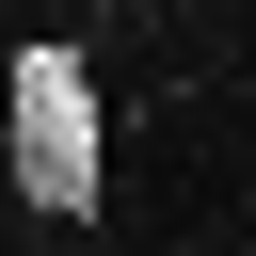
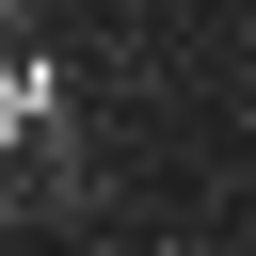
Added Mask

diff --git a/zero_shot.py b/zero_shot.py
@@ -4,7 +4,7 @@ from diffusers import DDIMScheduler,AutoencoderKL,UNet2DConditionModel
 from transformers import CLIPTextModel, CLIPTokenizer
 from tqdm import tqdm
 import matplotlib.pyplot as plt
-from ptp_utils import AttentionStore,diffusion_step,get_multi_level_attention_from_average,register_attention_control, get_cross_attention, show_cross_attention,latent2image
+from ptp_utils import AttentionStore,diffusion_step,get_multi_level_attention_from_average,register_attention_control, get_cross_attention, show_cross_attention,latent2image,save_tensor_as_image
 import cv2
 import argparse
 from accelerate import Accelerator
@@ -62,13 +62,15 @@ register_attention_control(unet, controller, new_attn)
 hr = cv2.resize(h, (args.res_size, args.res_size))
 cv2.imwrite(args.out_path + "hr.png", hr)
 ht = torch.tensor(cv2.resize(h, (args.res_size, args.res_size)), dtype=torch.float, device=device) / 255 
-x_0 = cv2.imread(args.out_path + "x0.png", cv2.IMREAD_GRAYSCALE)
-x_0 = torch.tensor(x_0, dtype=torch.float, device=device) / 255
+x_0 = torch.zeros((64,64), device=device, dtype=torch.float16)
+if args.guide:
+    x_0 = cv2.imread(args.out_path + "x0.png")
+    x_0 = torch.tensor(x_0, dtype=torch.float, device=device) / 255
 
 prompts = ["A cat on a garden with flowers, realistic 4k"]
 timesteps = 50
 scheduler.set_timesteps(timesteps)
-
+x_0 = torch.load(f'{path_original}{timesteps}.pt',map_location = device)
 batch_size = 1
 torch.manual_seed(2)
 noise = torch.randn((batch_size, 4, 64, 64), dtype=torch.float16, device=device) 
@@ -116,10 +118,10 @@ lossM = torch.nn.MSELoss(reduction="mean")
 m = torch.nn.Sigmoid()
 
 theta = torch.linspace(0.7, 1, timesteps//2)
-mask = torch.zeros_like(x0)
+mask = torch.zeros((64,64), device=noise.device, dtype=torch.float16)
 for t in tqdm(scheduler.timesteps):    
     if  0 <= step < timesteps // 2 and args.guide:
-        print(t)
+        
         #optimizer = torch.optim.SGD(filter(lambda p: p.requires_grad, pipe.unet.parameters()), args.lr)
         controller.reset()
         x_k = scheduler.scale_model_input(x_0, step)
@@ -133,17 +135,19 @@ for t in tqdm(scheduler.timesteps):
         attention_maps = attention_maps16.to(torch.float) 
         
         s_hat = attention_maps[:,:,mask_index]  #torch.mean(attention_maps,dim=-1)
-        mask = cv2.resize(s_hat.detach().cpu() + hr, x0.shape)
+        
+        heatmap = cv2.resize(s_hat.detach().cpu().numpy() + ht.cpu().numpy(), (64,64))
+        heatmap = heatmap / heatmap.max()
+        print(heatmap.max())
+        mask = torch.tensor(heatmap,device=device, dtype=torch.float16)
+        save_tensor_as_image(mask,"mask.png")
+        #mask = torch.nn.functional.interpolate(
+        #    mask, size=(512 // 8, 512 // 8)
+        #)
         
         attn_replace = torch.clone(attention_maps)
         attn_replace[:, :, mask_index] = ht
-        attn = s_hat.clone()
-        save_attn = (attn / 2 + 0.5).clamp(0, 1)
-        save_attn = attn.detach().cpu().numpy()
-        save_attn = (save_attn * 255).astype(np.uint8)
-        plt.imshow(save_attn)
-        plt.show()
-        plt.savefig("loss_attn.png")
+        save_tensor_as_image(attention_maps[:,:,mask_index],"loss_attn.png")
         losses = []
         
         
@@ -180,7 +184,7 @@ for t in tqdm(scheduler.timesteps):
         eta = 0.5
         latents = latents2 - eta * lambd[step] * grad_x
         latents = latents * theta[step] + latents_original * (1 - theta[step])
-        print(latents.shape)
+        
         #latents = (theta[step]) * latents + (1 - theta[step]) * torch.randn_like(latents)
         latents = latents.detach()
         latents.requires_grad_(True)
@@ -203,7 +207,7 @@ def save_net(net_, count, place_in_unet, module_name=None):
                 for k, net__ in net_.named_children():
                     count = save_net(net__, count, place_in_unet, module_name=k)
 
-
+torch.save(latents, f'{path_original}{step}.pt')
 image = latent2image(vae, latents.detach())
 plt.imshow(image)
 plt.savefig(args.out_path + "image.png")

diff --git a/ptp_utils.py b/ptp_utils.py
@@ -447,11 +447,11 @@ def diffusion_step(unet, scheduler, controller, latents, context, t, guidance_sc
     #with torch.no_grad():
     noise_pred = noise_pred_uncond + guidance_scale * (noise_prediction_text - noise_pred_uncond)
     
-    if xt:
-        noise_pred = xt[m] + noise_pred[1 - m]
+    
 
     latents = scheduler.step(noise_pred, t, latents)["prev_sample"]
-    
+    if xt != None:
+        latents = xt * m + (1 - m) * latents
     if controller != None:
         latents = controller.step_callback(latents)
         
@@ -581,3 +581,12 @@ def register_hook(net_, count, place_in_unet, module_name=None):
         for k, net__ in net_.named_children():
             count = register_hook(net__, count, place_in_unet, module_name=k)
     return count
+
+def save_tensor_as_image(image, path):
+    saved = image.clone()
+    saved = (saved / 2 + 0.5).clamp(0, 1)
+    saved = saved.detach().cpu().numpy()
+    saved = (saved * 255).astype(np.uint8)
+    plt.imshow(saved)
+    plt.show()
+    plt.savefig(path)
